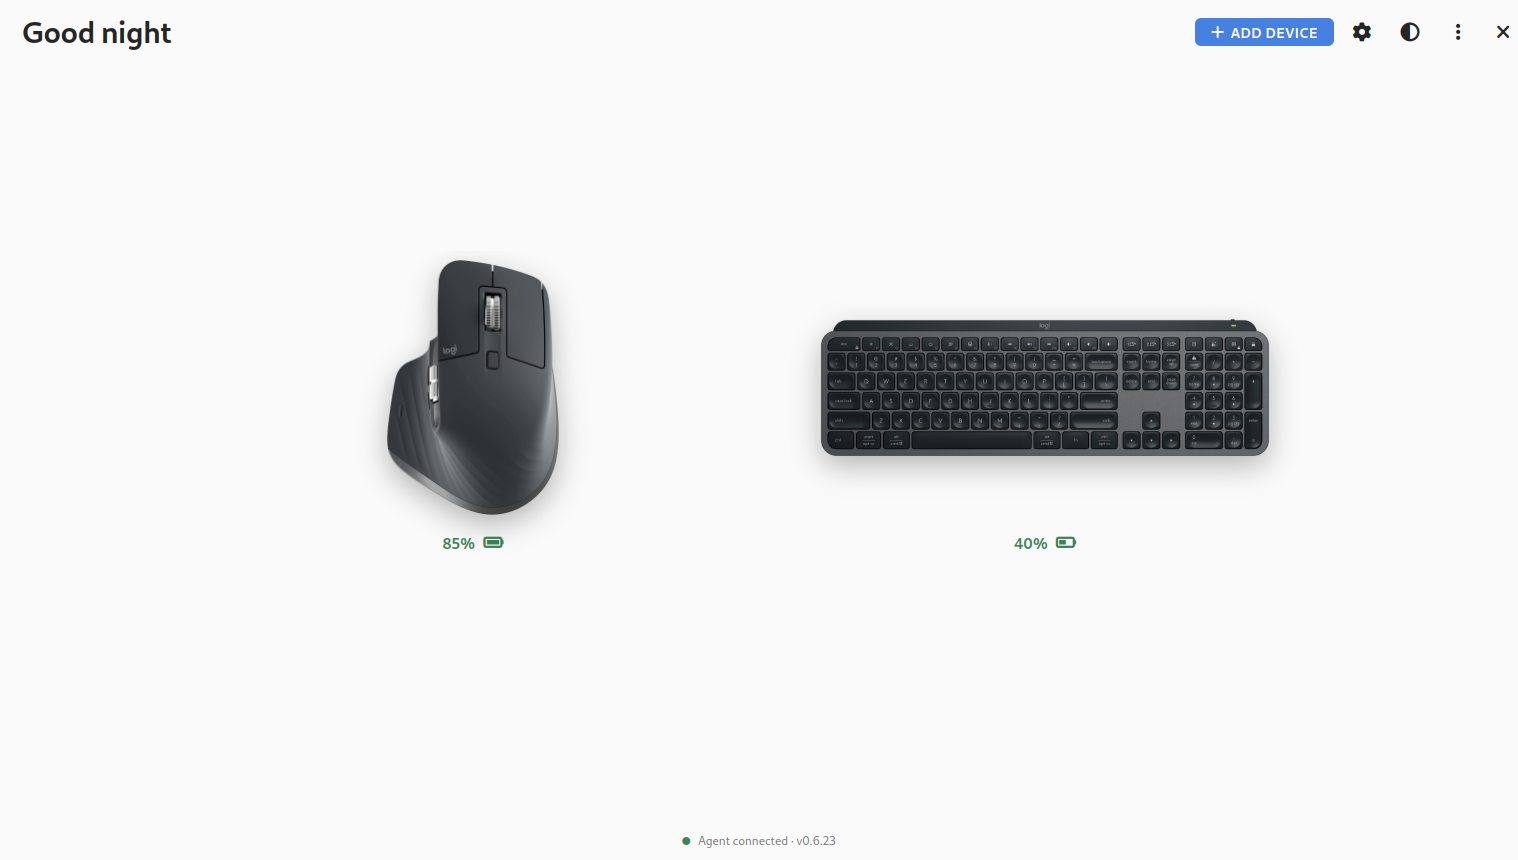
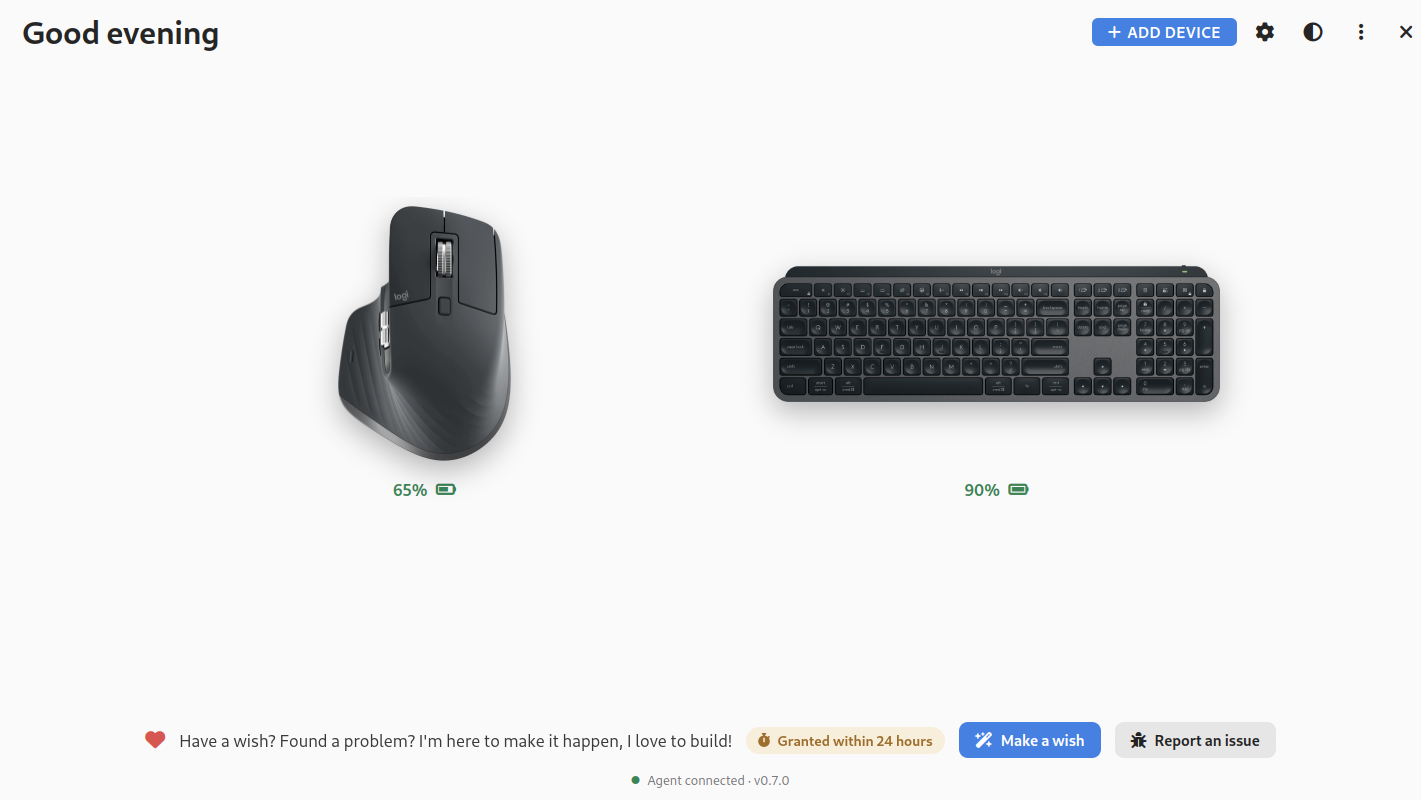
Fresh screenshots for 0.7.0; README: ring sizes, folders, per-app rings, Volume and Brightness, Make a wish; 24-hour badge readable on light themes

diff --git a/ui/renderer/styles.css b/ui/renderer/styles.css
@@ -993,8 +993,9 @@ button.rs-hub { border: 0; cursor: pointer; font: inherit; }
 .wish-line .btn.primary i { color: #fff; }
 .wish-hero { display: flex; gap: 14px; align-items: center; padding: 14px 16px; border-radius: 10px; background: color-mix(in srgb, var(--accbg) 12%, transparent); margin-bottom: 12px; line-height: 1.45; }
 .wish-hero > i { font-size: 24px !important; color: var(--accbg); }
-.wish-promise { display: inline-flex; align-items: center; gap: 7px; padding: 5px 12px; border-radius: 999px; background: color-mix(in srgb, #f5a623 18%, transparent); color: #f5a623; font-size: 14px; font-weight: 700; }
+.wish-promise { display: inline-flex; align-items: center; gap: 7px; padding: 5px 12px; border-radius: 999px; background: color-mix(in srgb, #f5a623 18%, transparent); color: #9a5b00; font-size: 14px; font-weight: 700; }
 .wish-promise i { font-size: 14px !important; animation: wish-tick 2s ease-in-out infinite; }
 @keyframes wish-tick { 0%, 100% { transform: rotate(0); } 10% { transform: rotate(-14deg); } 20% { transform: rotate(10deg); } 30% { transform: rotate(0); } }
 @media (prefers-reduced-motion: reduce) { .wish-promise i { animation: none; } }
 .wish-pledge { margin-top: 8px; font-weight: 700; color: var(--accbg); }
+[data-theme="dark"] .wish-promise, [data-theme="ubuntu-dark"] .wish-promise { color: #f5a623; }

diff --git a/README.md b/README.md
@@ -111,7 +111,19 @@ Empty slots are left out.
 On its page, click a slot to choose its action, or drag an action from the panel onto a slot.
 Several ring profiles can be kept and switched from the panel.
 
+- **Per-app rings**: pick an application in the profile bar and give it a ring of its own; the ring
+  follows the application in front.
+- **Size**: Small, Medium or Large.
+- **Folders**: a slot that opens eight more actions in place; the middle goes back.
+- **Volume and Brightness**: hold and drag to set the level, only the level bar stays on screen and
+  the ring comes back on release; or scroll over the slot with the ring open. Brightness follows
+  the screen under the pointer (laptop backlight, or external monitors over DDC/CI with ddcutil;
+  the app offers a one-click setup when something is missing).
+- **Next ring profile** and **Easy-Switch** to another computer, from the ring itself.
+
 ![Button actions with the action ring](screenshots/mouse-button-panel.png)
+
+![Volume bar while dragging](screenshots/ring-volume-bar.png)
 
 ### MX Master 4
 
@@ -331,6 +343,12 @@ Settings are kept in `~/.config/logimx/config.json`. Devices are identified by p
 [Supported devices](#supported-devices)) and controls by their HID++ control id.
 
 ## Reporting a problem
+
+Have a wish or found a problem? The home screen and the menu have **Make a wish** and **Report an
+issue**. A wish opens a feature request on GitHub with only the version, the system and the device
+names beside it. Wishes are granted within 24 hours.
+
+![Make a wish](screenshots/make-a-wish.png)
 
 About, Report a problem collects what is needed to reproduce an issue: versions, desktop, the
 devices and what they report, and the last lines of the agent's log. It opens a new GitHub issue in
